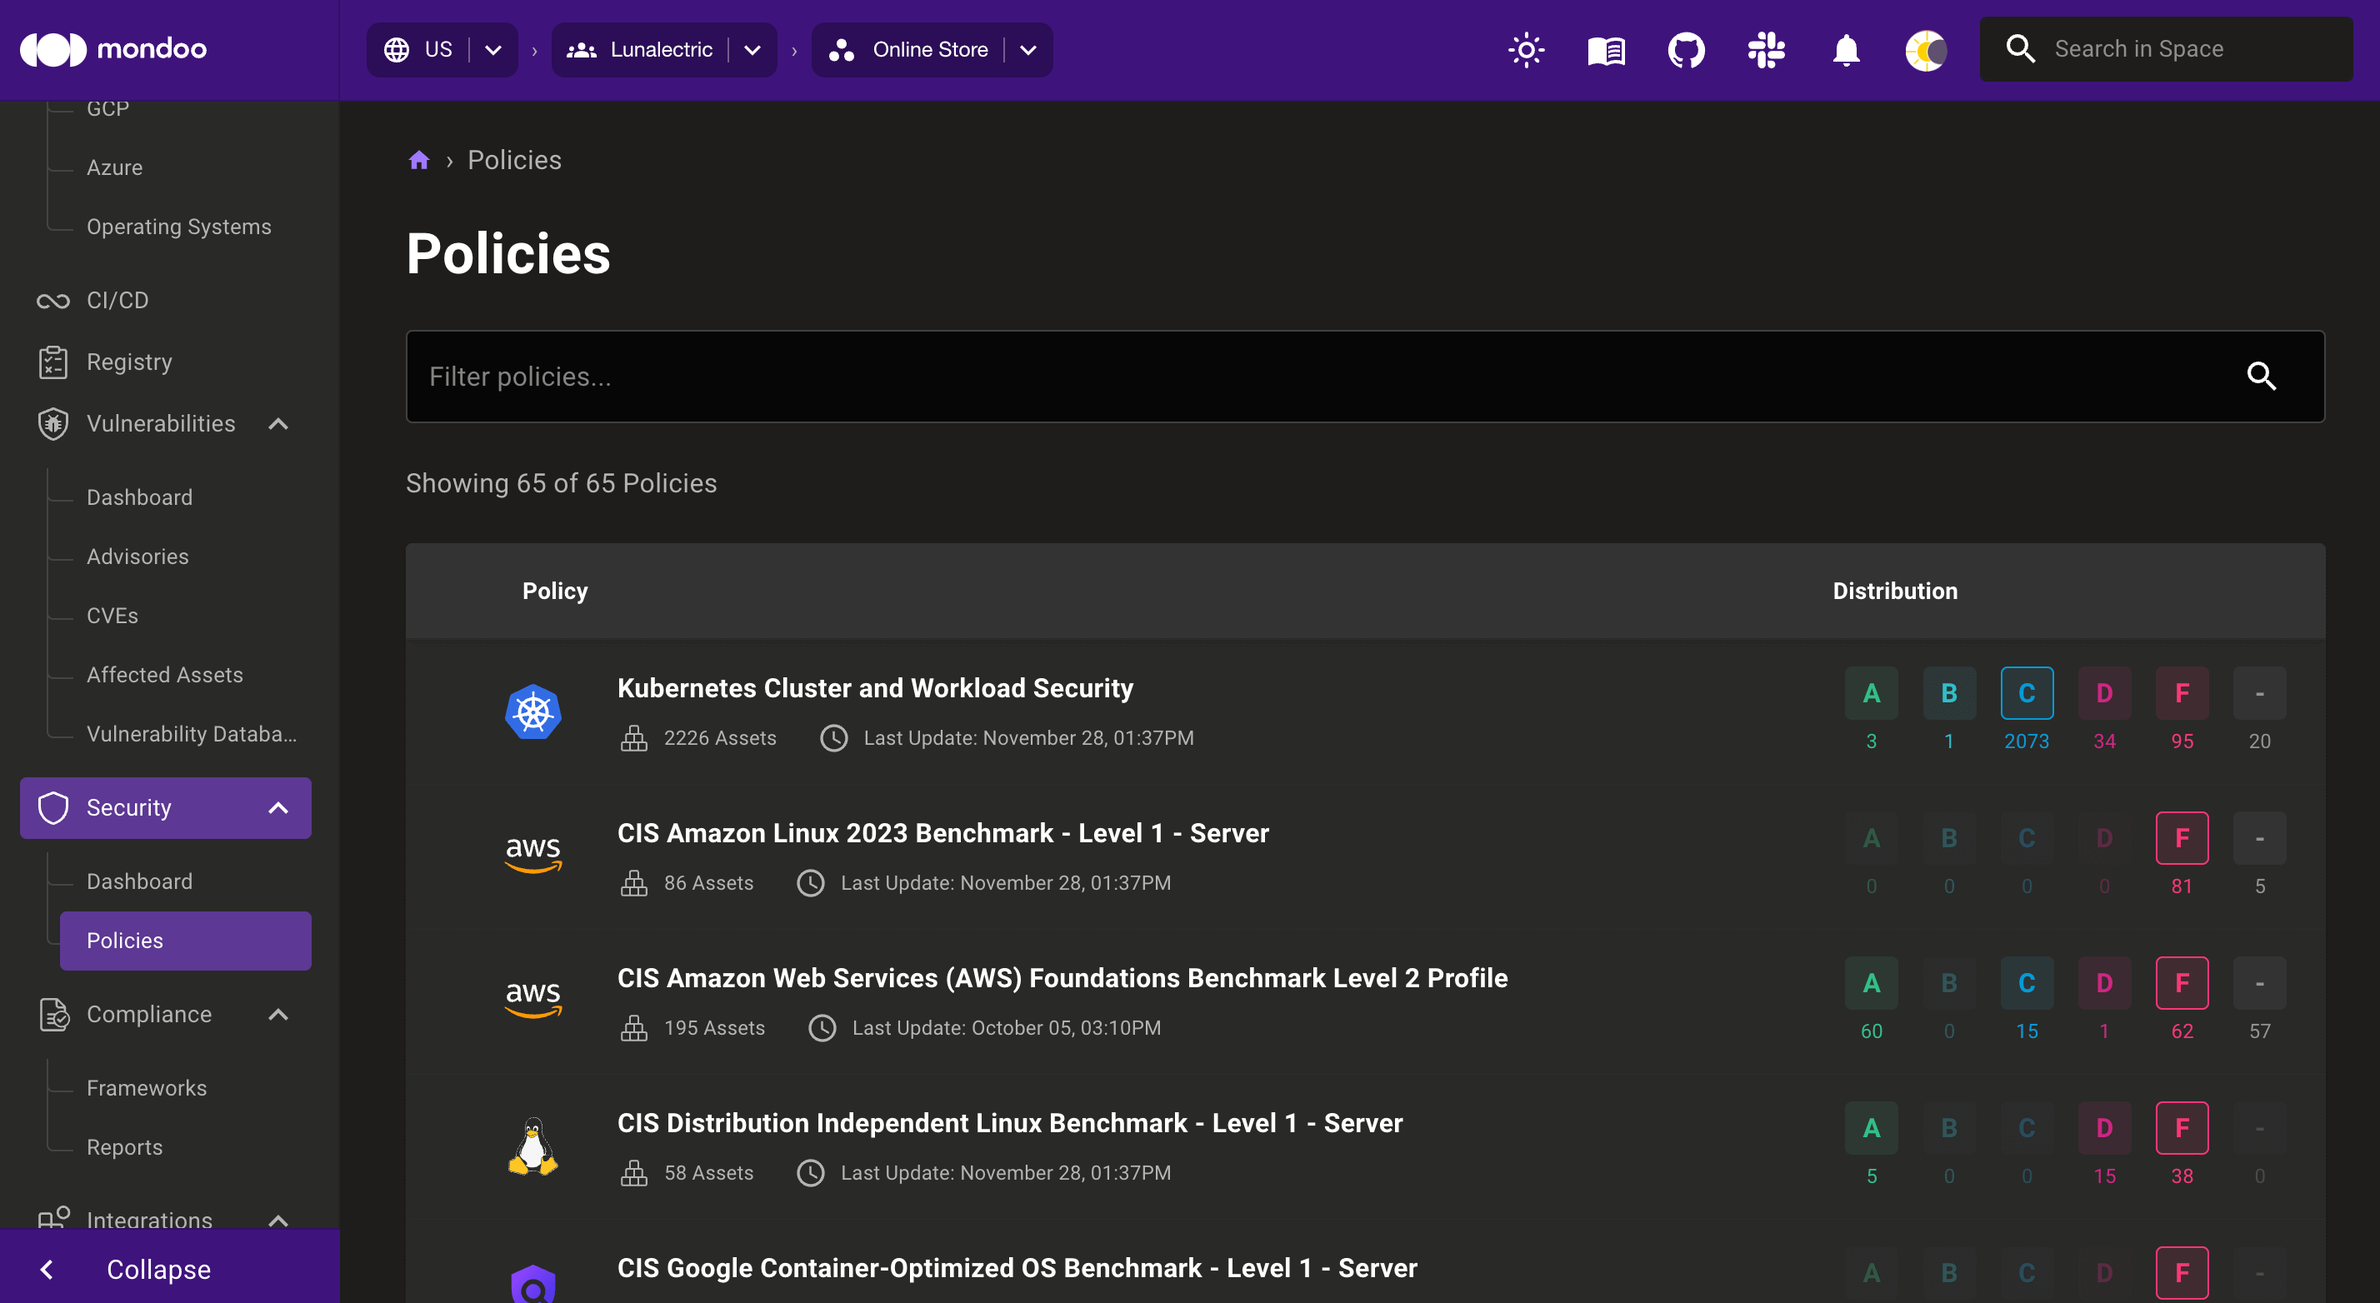
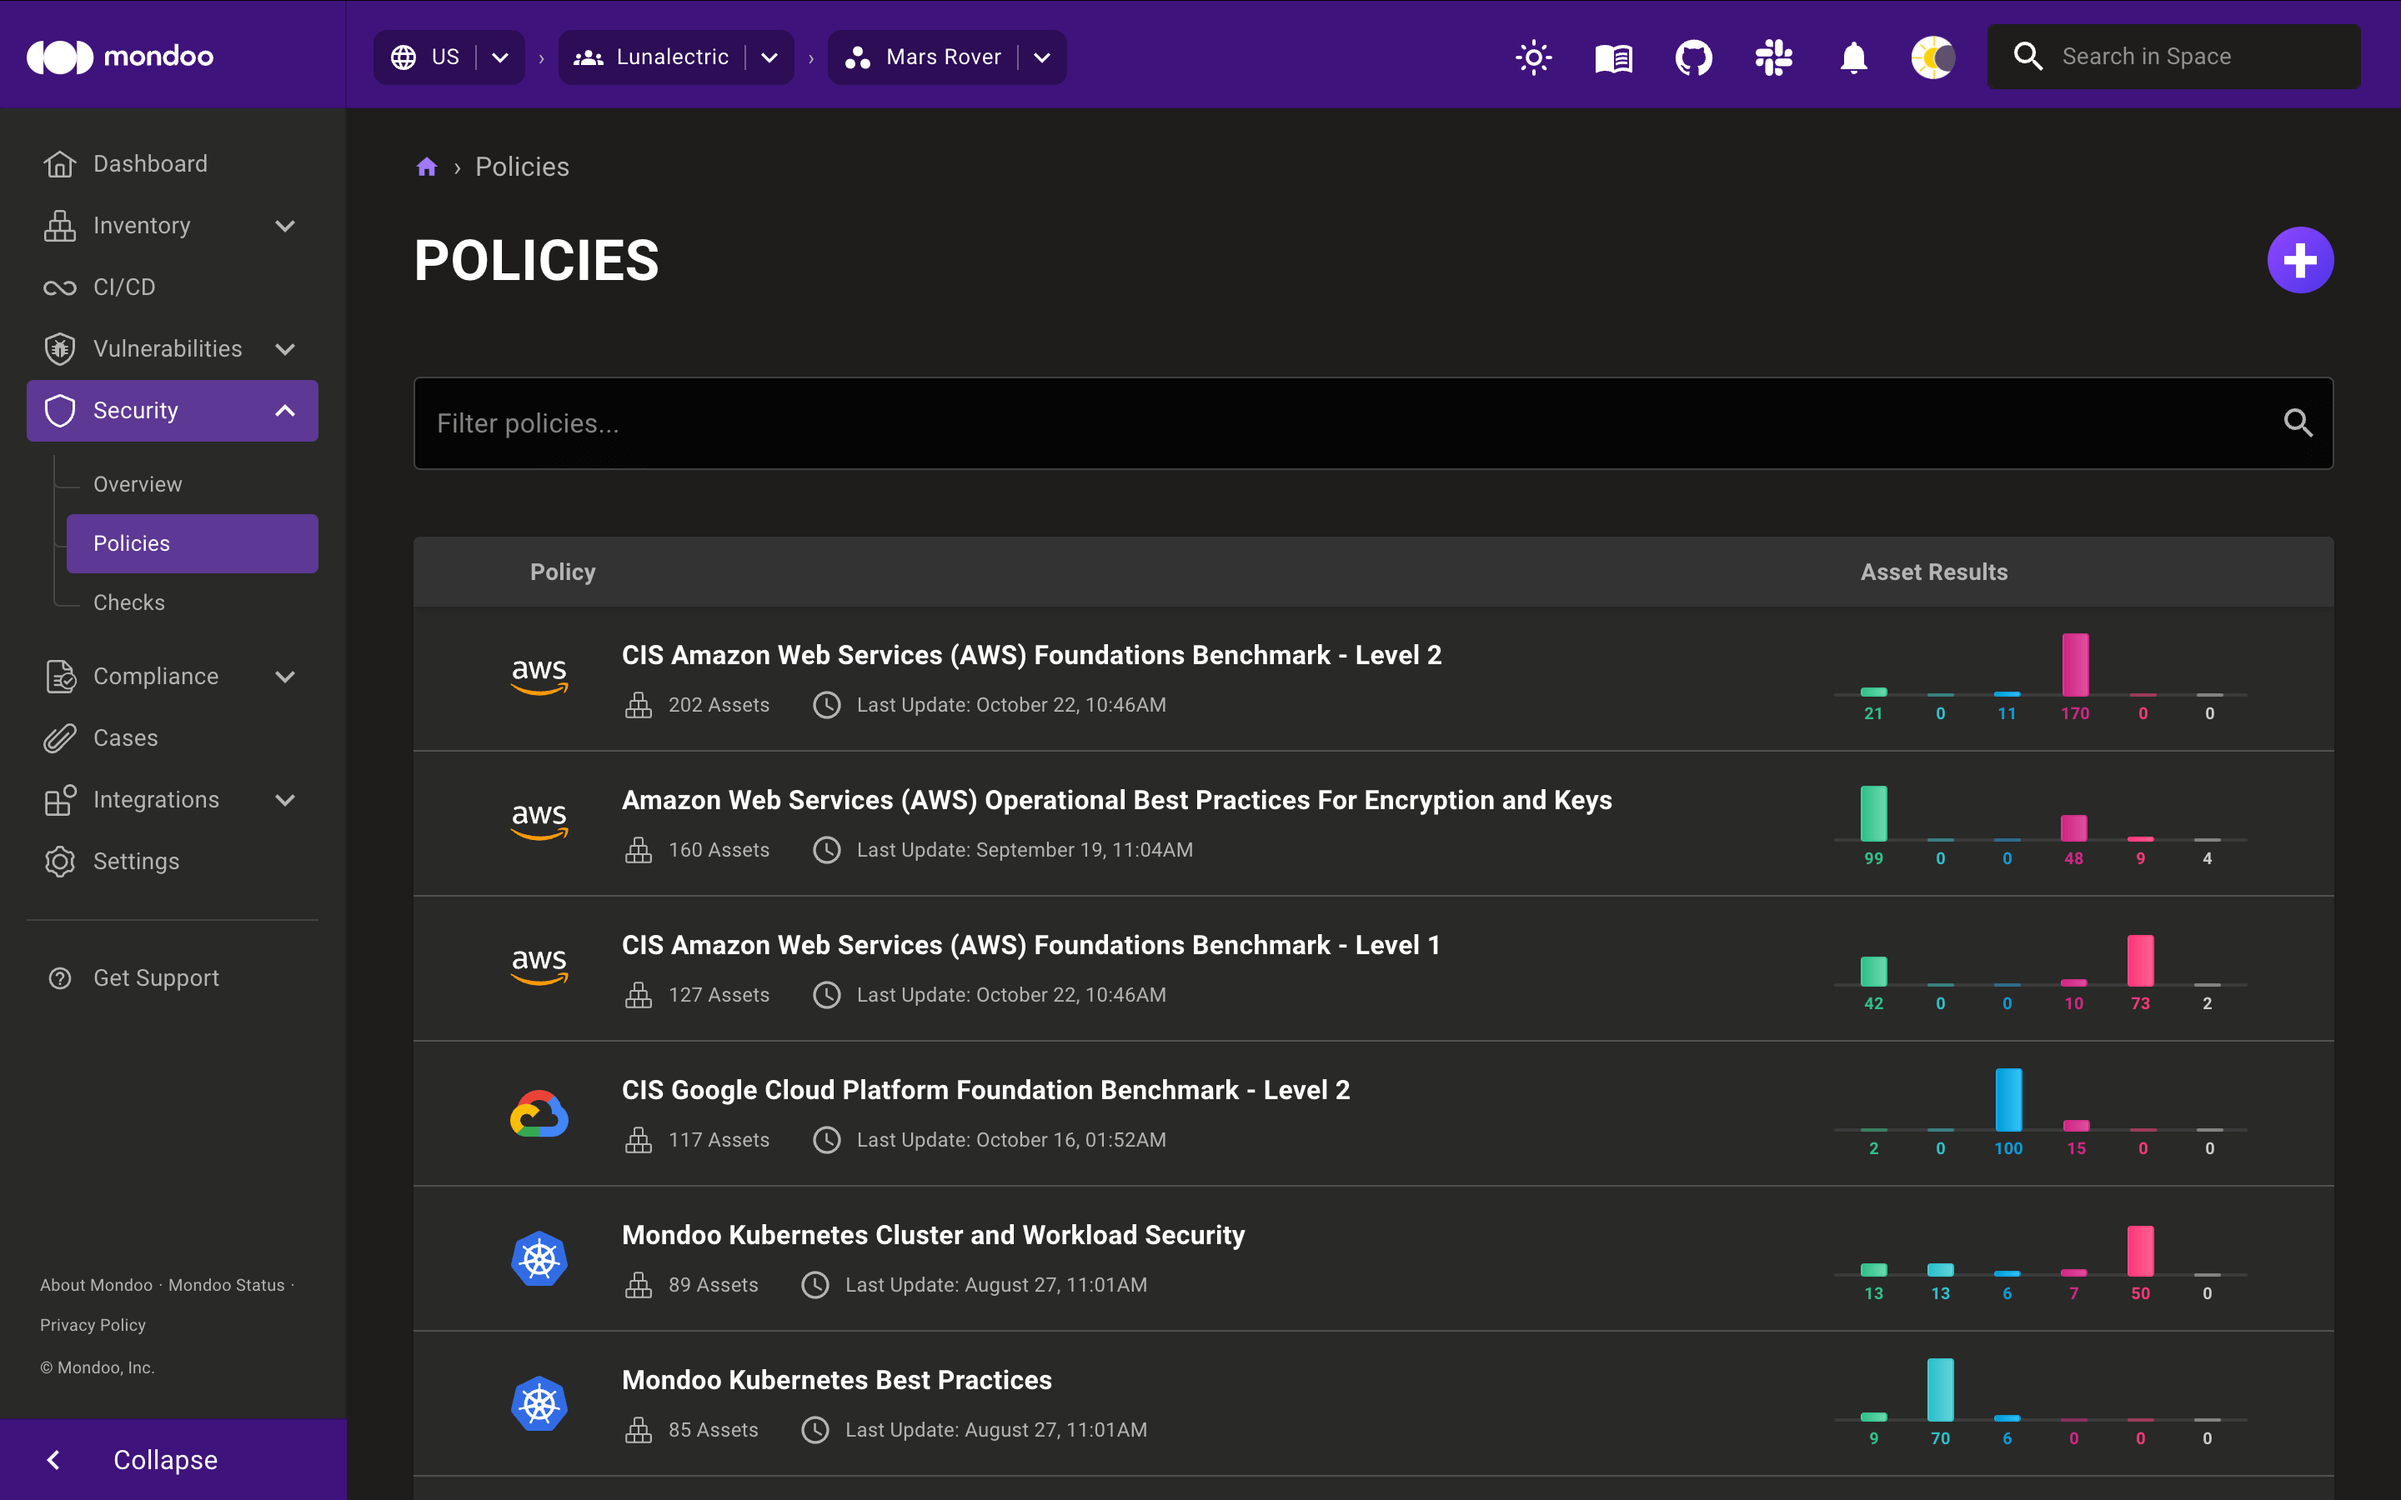
Update Security and Inventory sections with no-registry UX changes

diff --git a/docs/cnspec/supplychain/terraform.md b/docs/cnspec/supplychain/terraform.md
@@ -31,9 +31,14 @@ Mondoo Platform has a growing list of policies for static analysis of Terraform 
 Start by enabling any Terraform policies in Mondoo Platform you want to run against your Terraform code:
 
 1. Log in to [https://console.mondoo.com](https://console.mondoo.com).
-2. Navigate to **Registry**.
-3. In the **Filter policies...** box, search for "Terraform".
-4. Check the box next to any policies you want to enable, and select the **ENABLE** button.
+
+2. In the left navigation, under **Security**, select **Policies**.
+
+3. In the top-right corner, select the plus icon (+).
+
+4. In the **Filter policies...** box, search for "Terraform".
+
+5. To the right of the policy you want to enable, select the **ADD TO SPACE** button.
 
 ### Scan Terraform code with cnspec
 
